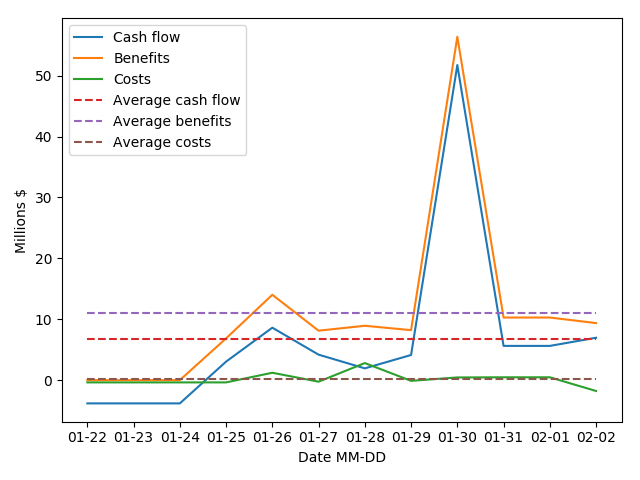
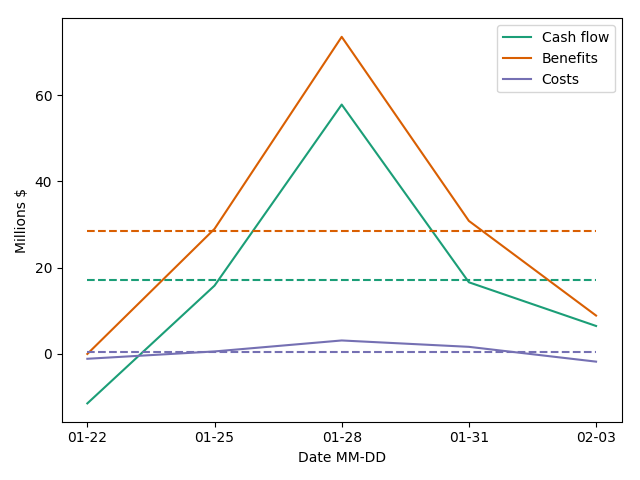
code : Cleaning UI

diff --git a/finance.py b/finance.py
@@ -4,7 +4,7 @@ from datetime import datetime
 from datetime import timedelta
 from enum import Enum
 from DateBase import DateBase
-
+from matplotlib.colors import rgb2hex
 import matplotlib.pyplot as plt
 import numpy as np
 
@@ -335,82 +335,71 @@ class Data:
 
 
 class Plot:
-
     @staticmethod
     def date_ticks(data):
-        day = timedelta(days=1)
-        x = [0] * data.base.range
-        for k in range(0, data.base.range):
-            shift = (k + data.base.offset) * data.base.period - data.base.covered + 1 + data.base.start
-            x[k] = (data.base.date + shift * day).strftime("%m-%d")
-        return x
+        ticks = list(map(lambda t: t.strftime("%m-%d"), data.base.list()))
+        return ticks
 
     @staticmethod
     def scale(y, div=1.e6):
-        if type(y) == dict:
-            new_y = dict(y)
-            for key in list(new_y.keys()):
-                new_y[key] = list(map(lambda t: t / div, new_y[key]))
-            return new_y
-        elif type(y) == list:
-            return list(map(lambda t: t / div, y))
+        new_y = y.copy()
+        for key in list(new_y.keys()):
+            new_y[key] = list(map(lambda t: t / div, new_y[key]))
+        return new_y
 
     @staticmethod
-    def raw(data):
+    def raw(data, average=False):
         x = Plot.date_ticks(data)
-        Plot.keys(data, x, Plot.scale(data.raw()), "Date MM-DD", "Millions $")
+        y = Plot.scale(data.raw())
+        label = {key: data.fields[key][Field.name.value] for key in list(y.keys())}
+        for keys in Data.keys:
+            Plot.keys(x, {key: y[key] for key in keys}, "Date MM-DD", "Millions $", label, average)
 
     @staticmethod
-    def rel(data):
+    def rel(data, average=False):
         x = Plot.date_ticks(data)
-        Plot.keys(data, x, Plot.scale(data.rel(), 1.e-2), "Date MM-DD", "Percent %")
+        y = Plot.scale(data.rel(), 1.e-2)
+        label = {key: data.fields[key][Field.name.value] for key in list(y.keys())}
+        for keys in Data.keys:
+            Plot.keys(x, {key: y[key] for key in keys}, "Date MM-DD", "Percent %", label, average)
 
     @staticmethod
-    def flow(data):
+    def flow(data, average=False):
         x = Plot.date_ticks(data)
-        y = data.flow()
-
-        y["flow"] = Plot.scale(y["flow"])
-        y["gain"] = Plot.scale(y["gain"])
-        y["loss"] = Plot.scale(y["loss"])
-
-        plt.plot(x, y["flow"], label="Cash flow")
-        plt.plot(x, y["gain"], label="Benefits")
-        plt.plot(x, y["loss"], label="Costs")
-        plt.plot(x, [sum(y["flow"]) / len(x)] * len(x), "--", label="Average cash flow")
-        plt.plot(x, [sum(y["gain"]) / len(x)] * len(x), "--", label="Average benefits")
-        plt.plot(x, [sum(y["loss"]) / len(x)] * len(x), "--", label="Average costs")
-        plt.legend()
-        plt.xlabel("Date MM-DD")
-        plt.ylabel("Millions $")
-        plt.show()
+        y = Plot.scale(data.flow())
+        label = {"flow": "Cash flow", "gain": "Benefits", "loss": "Costs"}
+        Plot.keys(x, y, "Date MM-DD", "Millions $", label, average)
 
     @staticmethod
     def pie(data):
-
         y = data.pie(thd=3.e5)
         size = 0.3
         fig, ax = plt.subplots()
-
         colors = plt.get_cmap("Set3")(np.arange(len(y)))
-
+        title = "Budget repartition : "
+        title += data.base.bound("start").strftime("%m-%d-%y") + " -> " + data.base.bound("end").strftime("%m-%d-%y")
         ax.pie(list(y.values()),
                radius=1,
-               wedgeprops=dict(width=size, edgecolor='w'),
+               wedgeprops=dict(width=size, edgecolor="w"),
                colors=colors,
-               labels=[data.fields[key][Field.name.value] for key in list(y.keys())]
+               labels=[data.fields[key][Field.name.value] for key in list(y.keys())],
+               autopct="%1.1f%%"
                )
-        ax.set(aspect="equal", title='Budget repartition')
+        ax.set(aspect="equal", title=title)
         plt.show()
 
     @staticmethod
-    def keys(data, x, y, xl, yl):
+    def keys(x, y, xl, yl, label, average=False):
+        keys = list(y.keys())
+        n = len(x)
+        colors = plt.get_cmap("Dark2")(np.arange(len(keys)))
+        for k in range(0, len(keys)):
+            plt.plot(x, y[keys[k]], label=label[keys[k]], color=rgb2hex(colors[k][:3]))
+            if average is True:
+                y_avg = [sum(y[keys[k]]) / len(y[keys[k]])] * n
+                plt.plot(x, y_avg, "--", label=None, color=rgb2hex(colors[k][:3]))
+            plt.legend()
+            plt.xlabel(xl)
+            plt.ylabel(yl)
 
-        for k in range(0, len(Data.keys)):
-            for key in Data.keys[k]:
-                plt.plot(x, y[key], label=data.fields[key][Field.name.value])
-                plt.legend()
-                plt.xlabel(xl)
-                plt.ylabel(yl)
-
-            plt.show()
+        plt.show()

diff --git a/DateBase.py b/DateBase.py
@@ -32,6 +32,21 @@ class DateBase:
         (self.period, self.offset, self.start, self.end) = self._unwrap()
         self.range = int((self.end - self.start) / self.period - self.offset) + 1
 
+    def list(self):
+        day = timedelta(days=1)
+        x = [0] * self.range
+        for k in range(0, self.range):
+            shift = (k + self.offset) * self.period - self.covered + 1 + self.start
+            x[k] = (self.date + shift * day)
+        return x
+
+    def bound(self, str):
+        day = timedelta(days=1)
+        if str == "start":
+            return self.start * day + self.raw_start
+        elif str == "end":
+            return self.end * day + self.raw_start
+
     def _unwrap(self):
         assert self.date is not None and self.covered > 0
 

diff --git a/README.md b/README.md
@@ -1,4 +1,4 @@
-# AMTools 0.5.0
+# AMTools 0.6.0
 
 ### Introduction
  
@@ -103,5 +103,4 @@ This code plots financial data such as the graph bellow :
 ![Cashflow](img/cashflow.png)
 
 The financial data are updated and concatenated on a json file `main.json` each time you load new data. 
-It avoid conflicts by writing only most recent data and allows storing and processing of long term data (month, year, more). 
-
+It avoid conflicts by writing only most recent data and allows storing and processing of long term data (month, year, more).
